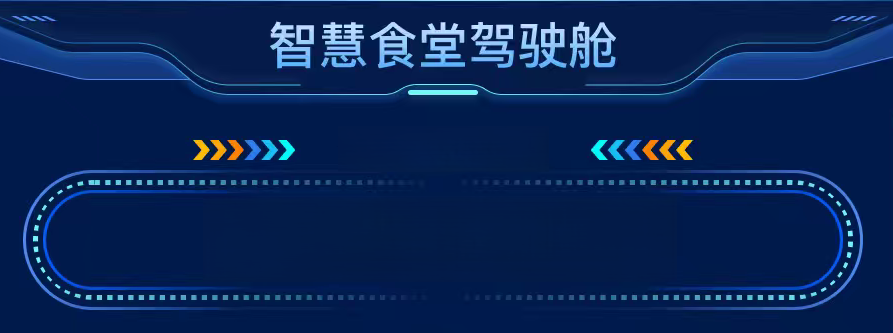
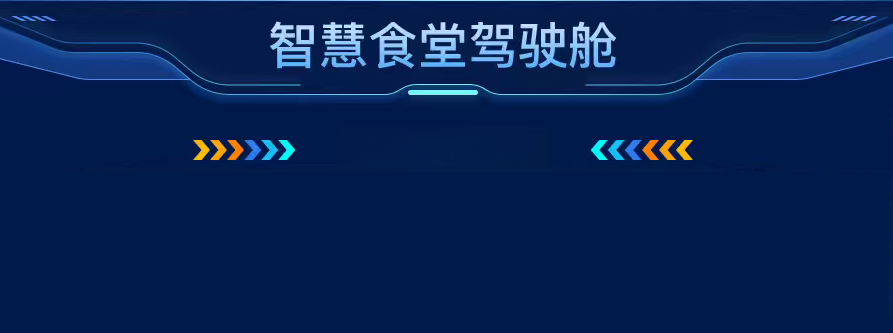
Add files via upload

Changed region(s): [[0.0, 0.5105, 0.4233, 0.9309], [0.5442, 0.5105, 0.9675, 0.9309]]

diff --git a/index.html b/index.html
@@ -64,19 +64,19 @@
     .title {
       font-size: 3.5rem;
       letter-spacing: 1px;
-      margin:100px 0 8px 0;
+      margin:70px 0 8px 0;
       opacity: 0.95;
     }
 
 
     .count-card {
       display: inline-block;
-      background: rgba(255,255,255,0.08);
+      /* background: rgba(255,255,255,0.08); */
       padding: 18px 28px;
       border-radius: 12px;
       min-width: 240px;
       box-shadow: 0 6px 18px rgba(0,0,0,0.25);
-      margin-top: 40px; /* 标题和卡片之间的间距 */
+      /* margin-top: 40px; 标题和卡片之间的间距 */
     }
 
     .count-number {
